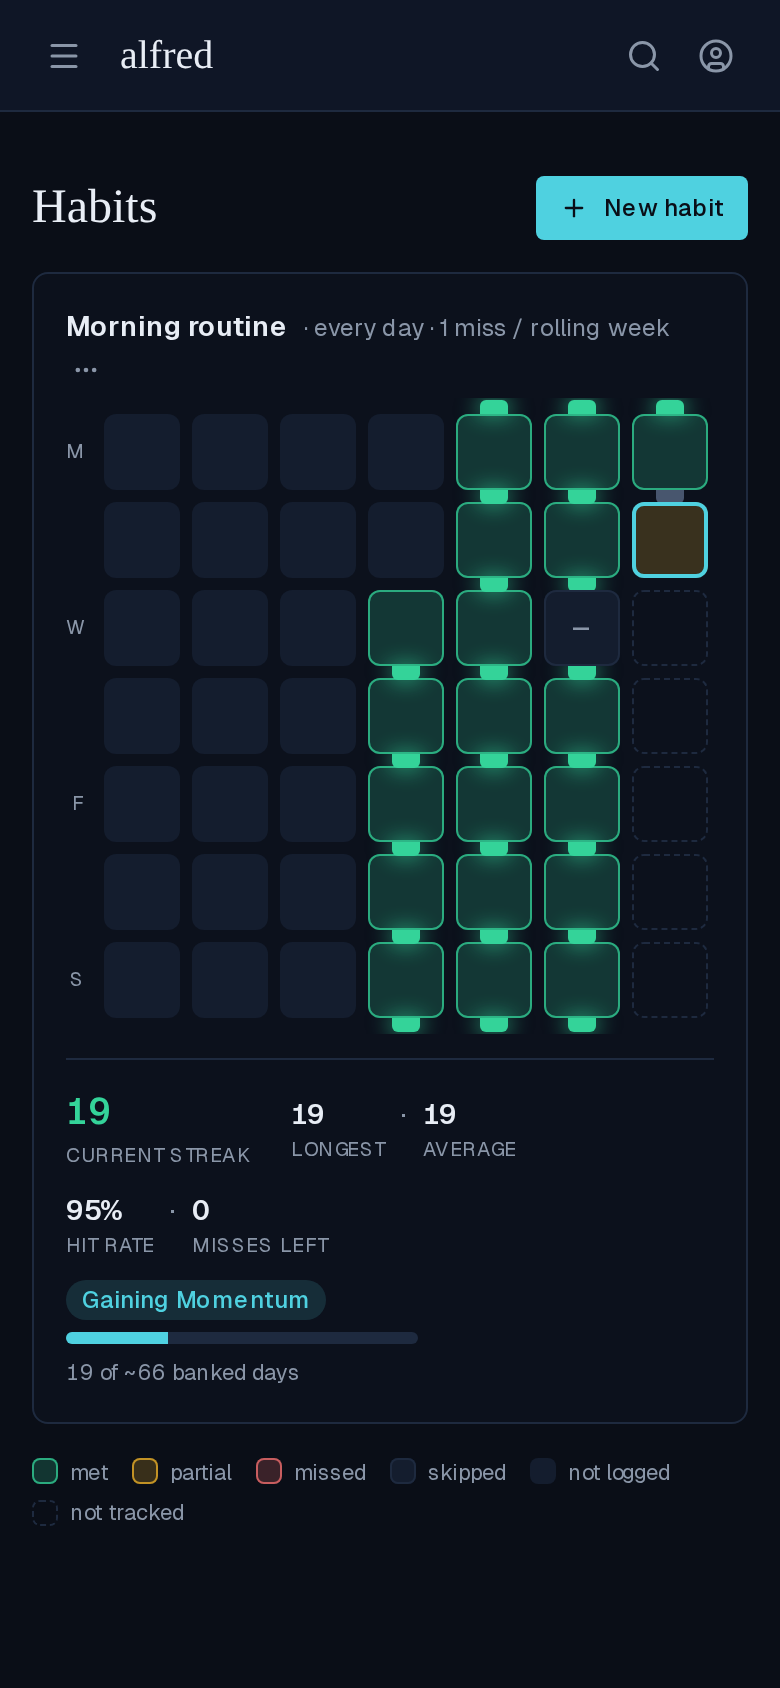
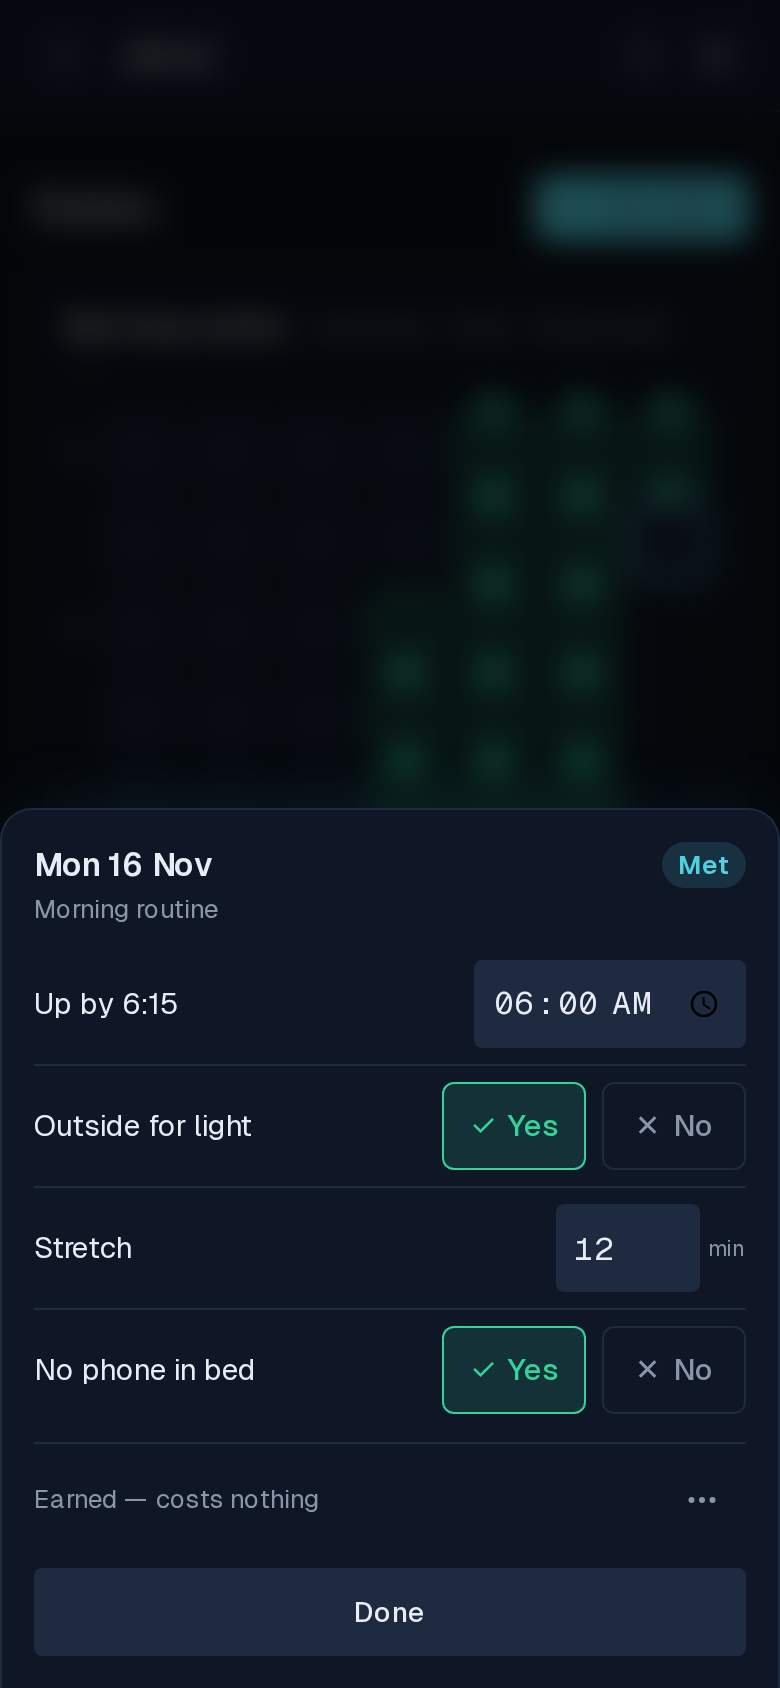
docs(demos): cover every phone habit journey with a sheet gif

diff --git a/docs/demos/ALF-370-mobile-habit-entry/mobile-habit-entry.md b/docs/demos/ALF-370-mobile-habit-entry/mobile-habit-entry.md
@@ -4,30 +4,90 @@ branch: claude/fervent-sagan-qao507
 
 # ALF-370: Mobile-friendly habit entry
 
-*2026-11-24T20:17:54.237Z*
+*2026-11-24T20:46:58.405Z*
 
-On a phone (390×844, touch), the habit grid's day squares grow from 26px to 38px on a 44px pitch, and tapping a day opens the day editor as a bottom sheet with 44px controls instead of the desktop popover. Desktop is unchanged. Every shot below is the live app (Next + the in-memory Supabase mock), driven by touch in Playwright.
+On a touch device (a viewport under 768px, or a coarse pointer at any width) the habit grid's squares grow from 26px to 38px on a 44px pitch, and tapping a day opens the day editor as a bottom sheet with 44px controls in place of the desktop popover. Every shot is the live app (Next + the in-memory Supabase mock) driven by touch in Playwright at 390×844, unless noted.
 
-**1. The phone view of /habits.** Thumb-sized squares; the strip still opens on the newest week (today's teal ring at the right edge), older weeks a sideways scroll away; connectors still join days across the gap and the Sunday→Monday stubs still show.
+## The grid
+
+**The phone view of /habits.** Thumb-sized squares. The strip opens on the newest week, with today's teal ring at the right edge. Connectors still join days across the gap, and the Sunday→Monday stubs still show.
 
 ![](mobile-habit-entry-image-1.png)
 
-**2. Tapping today's square opens the bottom sheet**, named "{date} — Morning routine". The header shows the date, the habit name, and the derived verdict (Missed: nothing recorded). Focus goes to the sheet, not a field, so no keyboard rises uninvited.
+**Older weeks are a sideways scroll away**, with the weekday labels fixed outside the strip.
 
 ![](mobile-habit-entry-image-2.png)
 
-**3. Logging in the sheet.** A time typed, one yes/no answered Yes and one answered No (two buttons, not the cycling box), the duration left empty. The verdict re-derives to Partial and the cost line follows. Every control is 44px tall.
+**A tap in the gap opens the nearest day.** The magenta dot marks a tap 2px below last Monday's square, inside the 6px gap. Each button's hit area reaches 3px past its square, so neighbouring targets meet.
 
 ![](mobile-habit-entry-image-3.png)
 
-**4. Done closes the sheet; the square has repainted** (amber partial, top right) and focus is back on it.
+The tap opens **last Monday**, not nothing. The sheet is named "{date} — {habit}".
 
 ![](mobile-habit-entry-image-4.png)
 
-**5. The skip step inside the sheet** (⋯ → Mark as skipped…): a full-width reason field, Cancel and Skip this day sharing the width at 44px. Skip this day stays disabled until a reason is typed.
+## Logging a day
+
+**Today's sheet on opening.** The header shows the date, the habit name and the derived verdict: Missed, since nothing is recorded yet. The cost line reads *Spends this week's allowance*. Focus goes to the sheet, not a field, so no keyboard rises uninvited.
 
 ![](mobile-habit-entry-image-5.png)
 
-**6. A skipped day** shows its reason in place of the criteria, then the cost line, ⋯ and Done.
+**Everything recorded:** a time, Yes on both yes/no criteria (two buttons, not the desktop's cycling box) and a duration. The verdict re-derives to Met and the cost line follows to *Earned — costs nothing*.
 
 ![](mobile-habit-entry-image-6.png)
+
+**A slip: No tapped on "No phone in bed".** It lights red, and the verdict drops to Partial.
+
+![](mobile-habit-entry-image-7.png)
+
+**Tapping the lit No again clears the criterion.** Both halves go grey and the cost line returns to *Spends this week's allowance*. Unrecorded and recorded-as-no are different days.
+
+![](mobile-habit-entry-image-8.png)
+
+Yes is tapped back on, then **Done**. The sheet closes, today's square repaints to met, and focus returns to it (teal ring).
+
+![](mobile-habit-entry-image-9.png)
+
+## Skipping a day
+
+**Yesterday's sheet → ⋯.** The menu's *Mark as skipped…* item is a 44px row.
+
+![](mobile-habit-entry-image-10.png)
+
+**The skip step**, titled with the date and the habit's name. *Skip this day* is disabled until a reason is typed.
+
+![](mobile-habit-entry-image-11.png)
+
+**A reason typed:** *Skip this day* is enabled. Cancel and Skip share the width at 44px.
+
+![](mobile-habit-entry-image-12.png)
+
+**Skip this day** closes the sheet, and yesterday's square (top right) repaints as skipped: the neutral plate with a dash.
+
+![](mobile-habit-entry-image-13.png)
+
+**Reopened, the skipped day** shows its reason in place of the criteria, then the cost line, ⋯ and Done.
+
+![](mobile-habit-entry-image-14.png)
+
+## Opening and closing
+
+**The sheet fades in, and fades out whole.** It is closed first by a tap on the overlay above it, then reopened and closed with Done. The editor stays drawn through the exit fade, and its values are saved the moment it closes. Escape also closes it; that path is covered by the unit tests, since a phone has no Escape key.
+
+![bottom sheet opening, closing on an overlay tap, reopening, closing on Done](mobile-habit-entry-video-15.gif)
+
+## Other widths
+
+**A tablet (1024×768, touch):** the coarse pointer alone switches touch mode on. The sheet is capped at 28rem and centred.
+
+![](mobile-habit-entry-image-16.png)
+
+**Desktop (1280×800, mouse) is unchanged:** 26px squares and the dense popover editor with its cycling yes/no boxes.
+
+![](mobile-habit-entry-image-17.png)
+
+## Storybook baseline moved by review
+
+After review, the skip step names the habit under its title, as the spec's plate draws it. Shown as the touch skip-step baseline's diff: before | changed pixels | after.
+
+![](mobile-habit-entry-image-18.png)
